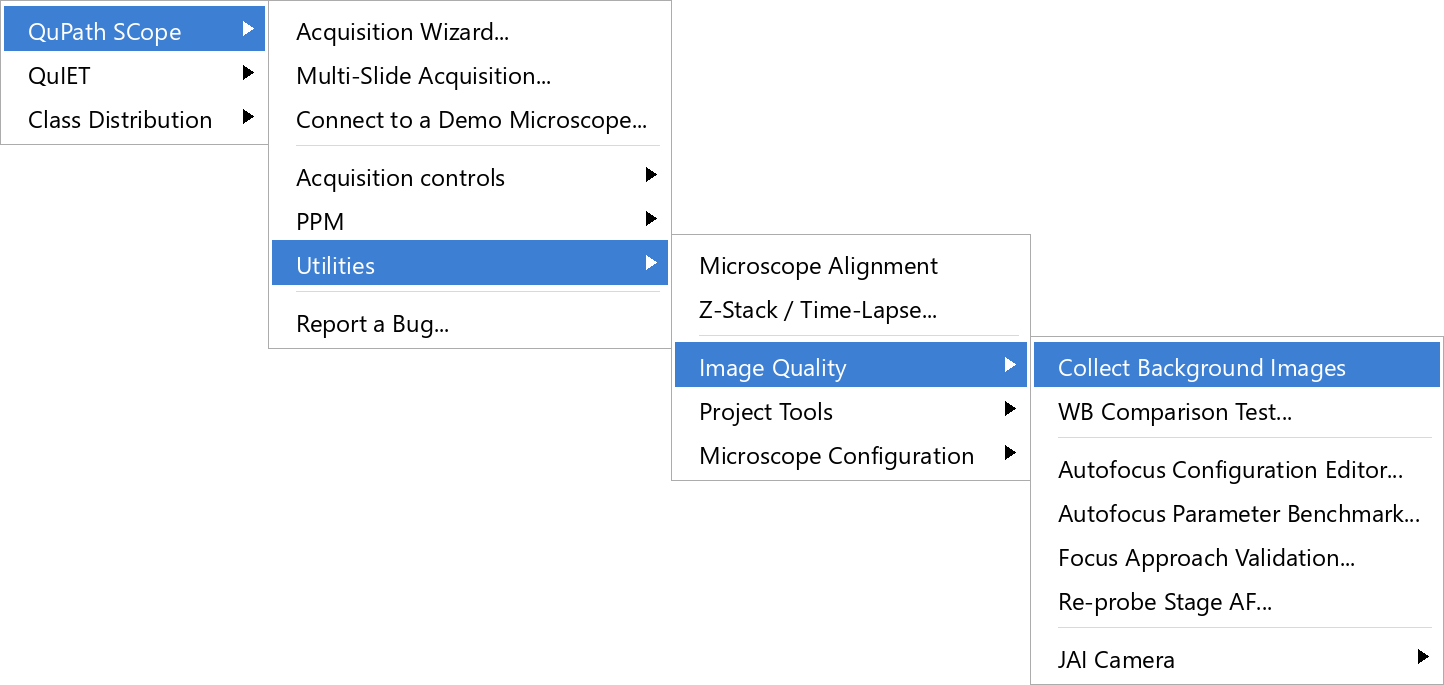
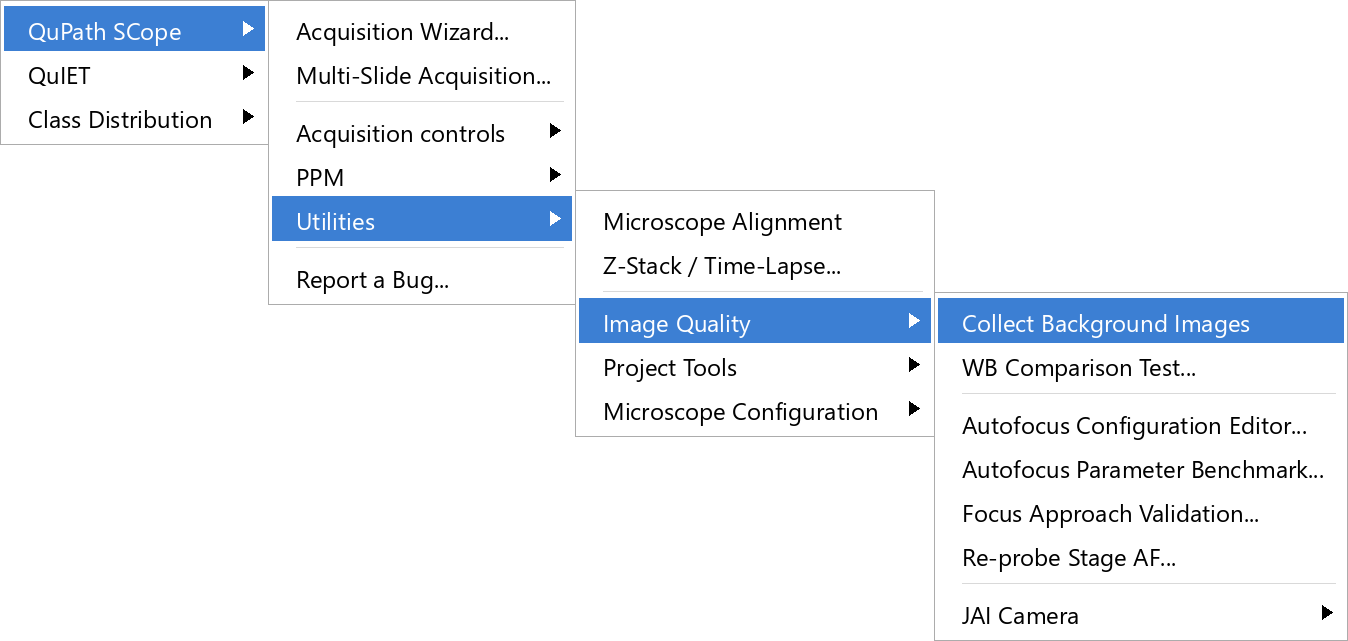
feat(menu): Connect to a Demo Microscope moves to Utilities > Microscope Configuration
Beside Switch Microscope, at the user's request; it was a top-level
item. Still never gated on the config. The placement test now pins the
new submenu and the absence from the top level; the three menu mock-up
specs and figures and four doc paths follow.

Claude-Session: https://claude.ai/code/session_01RGGpEUhYNeo6kpExXM8tGC

diff --git a/src/test/java/qupath/ext/qpsc/controller/DemoMicroscopeTest.java b/src/test/java/qupath/ext/qpsc/controller/DemoMicroscopeTest.java
@@ -71,16 +71,21 @@ class DemoMicroscopeTest {
     }
 
     @Test
-    void theMenuOffersTheDemoNextToTheWizard() throws IOException {
+    void theMenuOffersTheDemoUnderMicroscopeConfiguration() throws IOException {
         String setup = Files.readString(MAIN.resolve("SetupScope.java"));
         String strings = Files.readString(Path.of("src/main/resources/qupath/ext/qpsc/ui/strings.properties"));
         assertTrue(strings.contains("menu.connectDemoMicroscope = Connect to a Demo Microscope..."));
         int define = setup.indexOf("res.getString(\"menu.connectDemoMicroscope\")");
         int action = setup.indexOf("DemoMicroscope.connect()");
-        int placed = setup.indexOf("extensionMenu.getItems().add(demoOption);");
+        int configMenu = setup.indexOf("Menu microscopeConfigMenu = new Menu(\"Microscope Configuration\")");
+        int placed = setup.indexOf("demoOption,", configMenu);
+        int menuEnd = setup.indexOf("parfocalityCalibrationOption);", configMenu);
         assertTrue(
-                define > 0 && action > define && placed > action,
-                "demo item defined, wired, and added to the top level");
+                define > 0 && action > define && configMenu > action && placed > configMenu && placed < menuEnd,
+                "demo item defined, wired, and added to Utilities > Microscope Configuration");
+        assertFalse(
+                setup.contains("extensionMenu.getItems().add(demoOption);"),
+                "the demo item is no longer on the top level");
         // Never gated on the config: the whole point is that it works before any scope is set up.
         String defn = setup.substring(define, action);
         assertFalse(defn.contains("setDisable("), "the demo item must stay enabled with an invalid or offline config");

diff --git a/src/main/java/qupath/ext/qpsc/SetupScope.java b/src/main/java/qupath/ext/qpsc/SetupScope.java
@@ -338,6 +338,8 @@ public class SetupScope implements QuPathExtension, GitHubProject {
         });
 
         // === DEMO MICROSCOPE (always available, like Micro-Manager's demo configuration) ===
+        // Lives in Utilities > Microscope Configuration beside Switch Microscope (moved off the
+        // top level 2026-10-19, at the user's request).
         MenuItem demoOption = new MenuItem(res.getString("menu.connectDemoMicroscope"));
         setMenuItemTooltip(
                 demoOption,
@@ -809,6 +811,7 @@ public class SetupScope implements QuPathExtension, GitHubProject {
                         setupWizardOption,
                         serverConnectionOption,
                         switchMicroscopeOption,
+                        demoOption,
                         new SeparatorMenuItem(),
                         registerObjectiveOption,
                         lightPathOption,
@@ -850,7 +853,6 @@ public class SetupScope implements QuPathExtension, GitHubProject {
         // visible (a multi-slide holder is configured); it stays hidden on single-slide scopes.
         extensionMenu.getItems().add(wizardOption);
         extensionMenu.getItems().add(multiSlideOption);
-        extensionMenu.getItems().add(demoOption);
         extensionMenu.getItems().add(new SeparatorMenuItem());
 
         // 1. Acquisition controls -- the five items an operator uses during a session,

diff --git a/documentation/UTILITIES.md b/documentation/UTILITIES.md
@@ -30,7 +30,6 @@ The **QP Scope** entry in the menu bar shows a coloured dot so it stands out whe
 | **Top-Level Menu** | | |
 | [Acquisition Wizard](tools/acquisition-wizard.md) | Guided setup for new acquisitions | Extensions > QP Scope > Acquisition Wizard... |
 | [Multi-Slide Acquisition](tools/multi-slide-acquisition.md) | Batch-acquire several slides in one holder (setup pass + walk-away acquire); appears when config has a multi-slide holder | Extensions > QP Scope > Multi-Slide Acquisition... |
-| [Connect to a Demo Microscope](#connect-to-a-demo-microscope) | Try QPSC with no hardware: start the microscope server in demo mode, switch to the bundled demo config, connect, open the Live Viewer | Extensions > QP Scope > Connect to a Demo Microscope... |
 | [Report a Bug...](#report-a-bug) | Submit a bug report directly to the issue tracker | Extensions > QP Scope > Report a Bug... |
 | **Acquisition controls** | | |
 | [Bounded Acquisition](tools/bounded-acquisition.md) | Direct bounding-box acquisition from stage coordinates | Extensions > QP Scope > Acquisition controls > Bounded Acquisition |
@@ -60,6 +59,7 @@ The **QP Scope** entry in the menu bar shows a coloured dot so it stands out whe
 | [Setup Wizard](tools/setup-wizard.md) | Create microscope config files (first-time setup) | Extensions > QP Scope > Utilities > Microscope Configuration > Setup Wizard... |
 | [Communication Settings](tools/server-connection.md) | Configure server connection and notification alerts | Extensions > QP Scope > Utilities > Microscope Configuration > Communication Settings... |
 | Switch Microscope | Apply the Microscope Config File preference without restarting: reconnect the server, rebuild the menu, reopen the Live Viewer and Stage Map, close other QP Scope windows (refused during an acquisition; invalid files roll back) | Extensions > QP Scope > Utilities > Microscope Configuration > Switch Microscope... |
+| [Connect to a Demo Microscope](#connect-to-a-demo-microscope) | Try QPSC with no hardware: start the microscope server in demo mode, switch to the bundled demo config, connect, open the Live Viewer | Extensions > QP Scope > Utilities > Microscope Configuration > Connect to a Demo Microscope... |
 | Register Current Objective | Add the objective in the light path to the config (reads MM pixel size) | Extensions > QP Scope > Utilities > Microscope Configuration > Register Current Objective... |
 | Light Path Orientation | Set the microscope's fixed orientation: scope type (upright/inverted) and optical flip (drives the Stage Map Camera View) | Extensions > QP Scope > Utilities > Microscope Configuration > Light Path Orientation... |
 | [Parfocality Calibration](tools/parfocality-calibration.md) | Capture per-profile Z offsets so the stage refocuses when switching modality | Extensions > QP Scope > Utilities > Microscope Configuration > Calibrate Parfocality... |
@@ -110,7 +110,8 @@ Adds the objective currently in the light path to the microscope configuration w
 ### Connect to a Demo Microscope
 
 QPSC driving a simulated microscope, the way Micro-Manager's demo configuration lets you try
-that program with no hardware. Always enabled, even with no configuration.
+that program with no hardware. Always enabled, even with no configuration. Find it under
+**Extensions > QP Scope > Utilities > Microscope Configuration**.
 
 **Needs:** QuPath, the Python packages and the two JARs. No Micro-Manager, no configuration.
 

diff --git a/CHANGELOG.md b/CHANGELOG.md
@@ -15,6 +15,10 @@ and this project adheres to [Semantic Versioning](https://semver.org/spec/v2.0.0
 - **LC-PolScope backgrounds are always used when collected.** An LC-PolScope acquisition sends its background whenever a background folder is configured, independent of the "Use background correction" checkbox (flat-field only; now hidden for LC-PolScope) and the YAML `enabled` flag. The server still refuses one from another calibration. Background Collection shows the five states at their one exposure and hides Target Intensity for this modality, since the background must be taken at the acquisition exposure.
 - **LC-PolScope: optional per-tile estimated background.** For a background that differs from tile to tile: `reconstruction.estimated_background.enabled: true` in the microscope YAML makes the server fit and remove a smooth residual from each tile after the measured background. A tile that is mostly specimen is left uncorrected, because the fit cannot tell smooth specimen retardance from residual. Off by default. Needs the matching microscope_command_server and polscope_library. See [CHANNELS.md](documentation/CHANNELS.md).
 
+### Changed
+
+- **Connect to a Demo Microscope moved to Utilities > Microscope Configuration**, beside Switch Microscope. It was a top-level item. It is still always enabled, including with no configuration.
+
 ### Fixed
 
 - **The Stage Map says when a slide has no alignment.** With a whole-slide image open that has a macro image, but no alignment between the selected **Source** and this microscope, the map used to be simply empty. It now shows "No alignment found for selected source microscope or scanner" in large bold text, with a pointer to **Utilities > Microscope Alignment**. A slide without a macro image shows nothing, as before.

diff --git a/README.md b/README.md
@@ -135,7 +135,7 @@ running**. See the [Installation Guide](documentation/INSTALLATION.md) for the f
 >
 > **No microscope yet?** Do Steps 1, 3 and 4 of the [Installation Guide](documentation/INSTALLATION.md)
 > (QuPath, the Python packages, the QPSC and tiles-to-pyramid JARs), then choose
-> **Extensions > QP Scope > Connect to a Demo Microscope...** QPSC starts the microscope server in demo
+> **Extensions > QP Scope > Utilities > Microscope Configuration > Connect to a Demo Microscope...** QPSC starts the microscope server in demo
 > mode (a simulated slide on an XYZ stage, no Micro-Manager needed) and opens the Live Viewer. Click
 > **Live: OFF** to see the simulated slide. See
 > [Try It Without a Microscope](documentation/INSTALLATION.md#try-it-without-a-microscope-optional).

diff --git a/documentation/PREFERENCES.md b/documentation/PREFERENCES.md
@@ -340,7 +340,7 @@ disabled. Point this preference at a real `config_<scope>.yml` (or run the Setup
 Wizard) to enable acquisition. The placeholder is created once and never
 overwritten.
 
-**Demo microscope:** **Extensions > QP Scope > Connect to a Demo Microscope...**
+**Demo microscope:** **Extensions > QP Scope > Utilities > Microscope Configuration > Connect to a Demo Microscope...**
 extracts a second bundled config, `<QuPath user directory>/qpsc-demo-microscope/config_Demo.yml`
 (marked `microscope.demo: true`), and switches this preference to it; on Windows the value
 becomes `C:\Users\<you>\QuPath\v0.7\qpsc-demo-microscope\config_Demo.yml`. Unlike the

diff --git a/documentation/INSTALLATION.md b/documentation/INSTALLATION.md
@@ -230,7 +230,7 @@ bug for a report.
 find the server program the first time.** Expect the dialog *QPSC could not start the
 microscope command server*. Step 2 below says what to do.
 
-1. Choose **Extensions -> QP Scope -> Connect to a Demo Microscope...**. Starting the server
+1. Choose **Extensions -> QP Scope -> Utilities -> Microscope Configuration -> Connect to a Demo Microscope...**. Starting the server
    takes a few seconds (QPSC waits up to a minute). When it is up, a notification reads
    *Started the demo server and connected.* and the Live Viewer opens.
 2. If the dialog *QPSC could not start the microscope command server* appears instead, click
